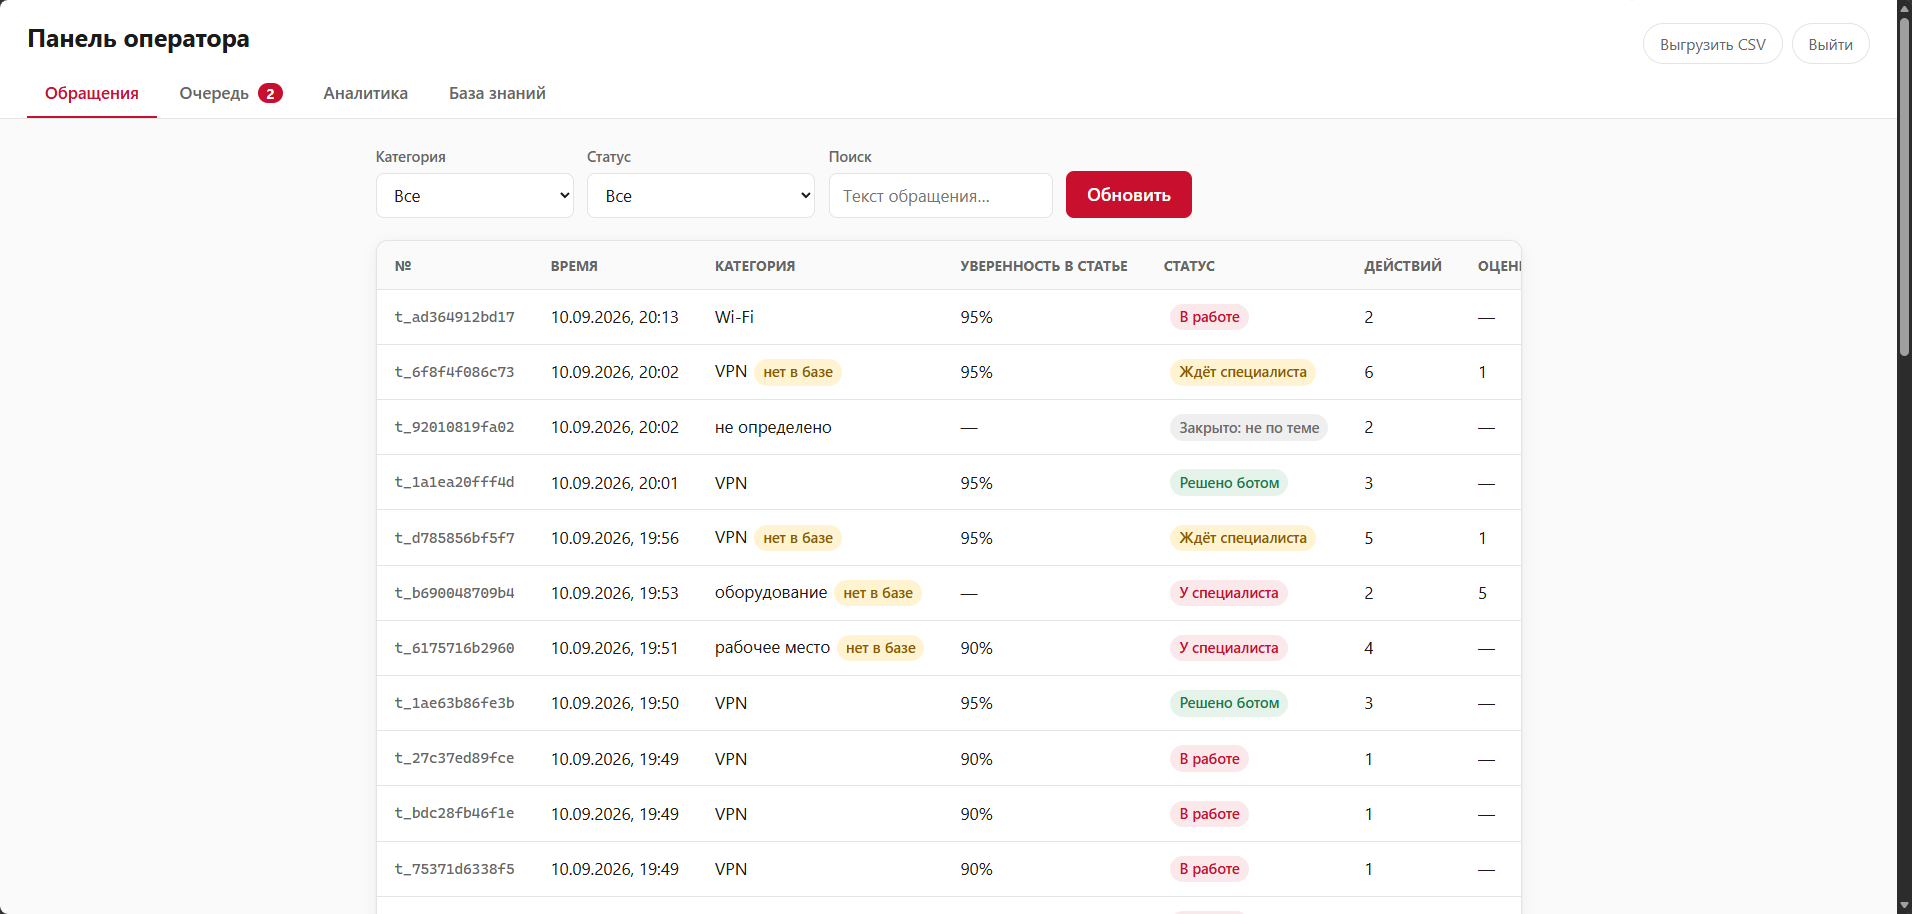
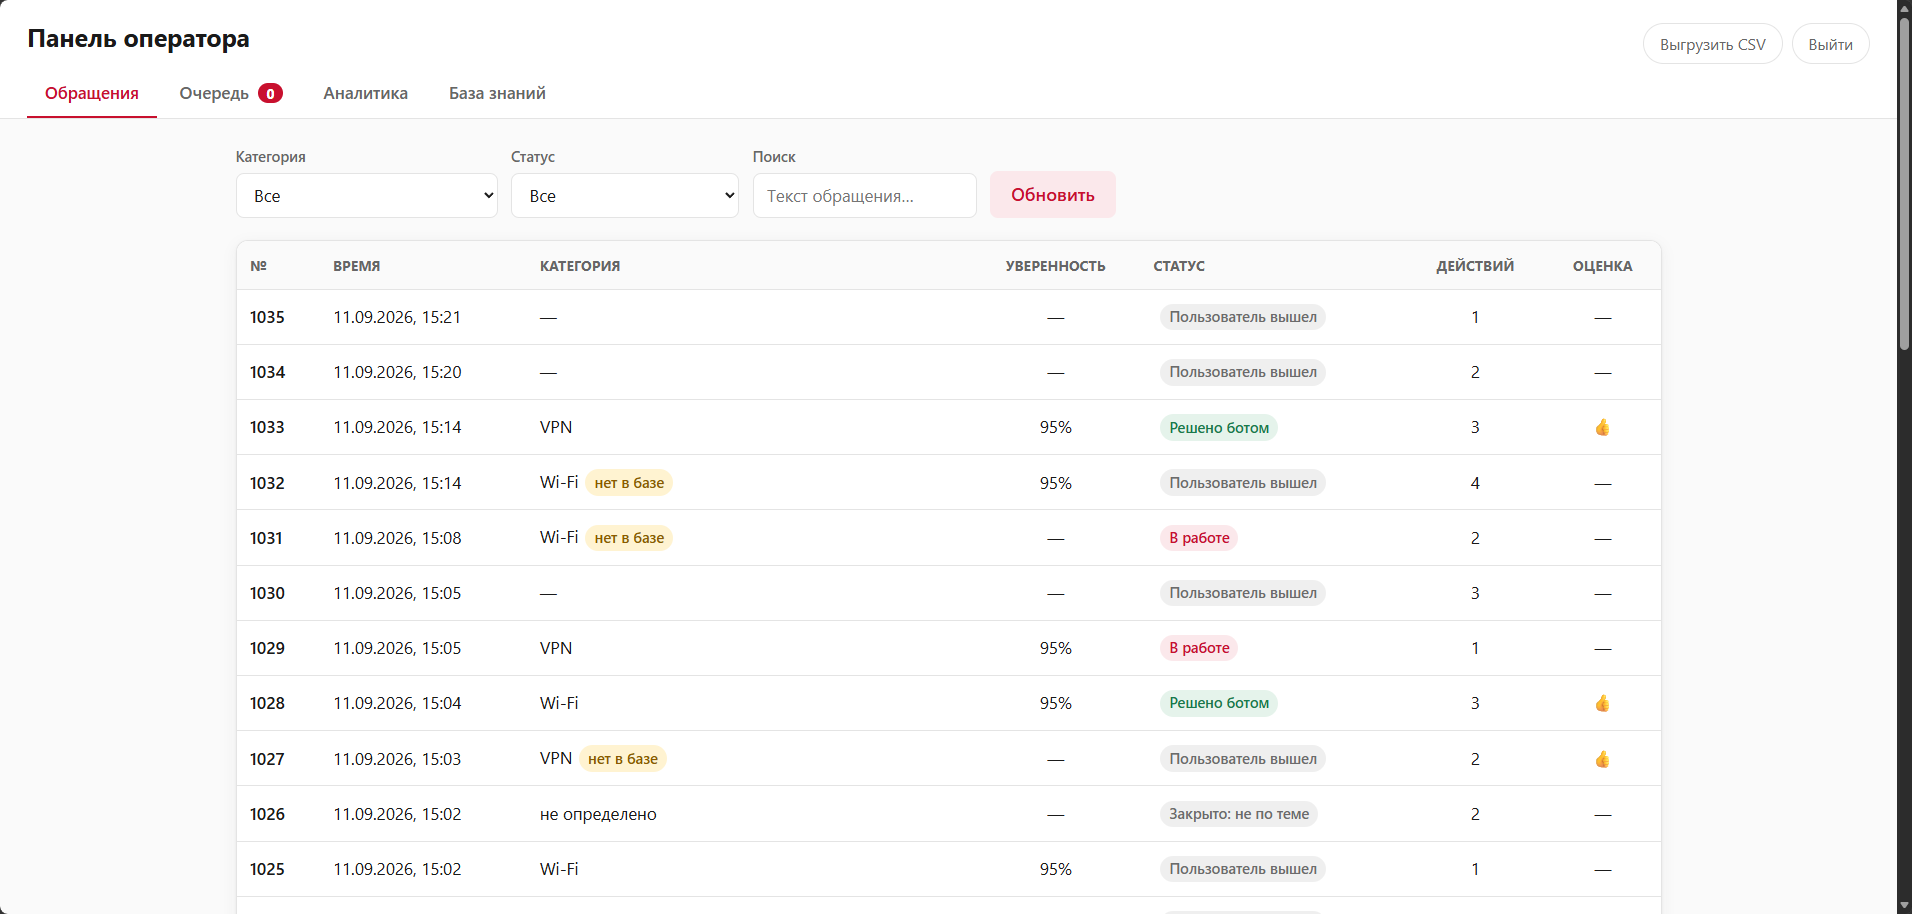
Финальная версия

diff --git a/core/dialog.py b/core/dialog.py
@@ -181,8 +181,6 @@ _MAX_OFFTOPIC = int(os.getenv("MAX_OFFTOPIC_MESSAGES", "2"))
 
 # ------------------------------------------- просьба позвать специалиста
 
-SPECIALIST_QR = "Всё равно позвать специалиста"
-
 _SPECIALIST_RE = re.compile(r"специалист|оператор|живо(?:го|му) человек", re.I)
 
 # Служебные слова самой просьбы: если кроме них в сообщении ничего нет,
@@ -212,15 +210,31 @@ def _wants_specialist(text: str) -> bool:
 
 
 def _ask_to_describe(db: Session, ticket: Ticket) -> ChatResponse:
+    """Просьба позвать человека, в которой не описана проблема.
+
+    Специалиста отсюда не зовём: заявка без описания занимает его рабочее время
+    и всё равно начинается с вопроса «а что у вас не работает». Сначала
+    предлагаем помощь. Если она не подойдёт, обращение уйдёт человеку обычным
+    путём — из проверки результата.
+    """
+    first = not ticket.specialist_asked
     ticket.specialist_asked = True
     ticket.state = "NEW"
     repo.log_event(db, ticket.id, "specialist_requested_blank")
+
+    text = ("Большинство типовых проблем я решаю сам и быстрее, чем занятый "
+            "специалист. Опишите в двух словах, что не работает — а если "
+            "не справлюсь, передам обращение ему вместе со всей историей."
+            if first else
+            "Мне правда нужно знать, в чём проблема: без этого я не смогу "
+            "ни помочь, ни толком передать обращение. Напишите одной фразой, "
+            "что случилось, или выберите вариант ниже.")
+
     return _respond(db, ticket, Reply(
-        type="question",
-        text=("Специалиста позову — но сначала опишите в двух словах, что "
-              "не работает. Так он подключится, уже понимая ситуацию, "
-              "а возможно, я решу вопрос быстрее."),
-        quick_replies=[SPECIALIST_QR]))
+        type="question", text=text,
+        quick_replies=["Не подключается VPN",
+                       "Не подключается Wi-Fi",
+                       "Не печатает принтер"]))
 
 
 def _looks_like_nonsense(text: str) -> bool:
@@ -397,10 +411,6 @@ def _classify(db: Session, ticket: Ticket, user_text: str) -> ChatResponse:
     # в поиск бессмысленно: искать нечего, а общие шаги вроде «перезагрузите
     # устройство» к неизвестной проблеме отношения не имеют.
     if _wants_specialist(user_text):
-        if ticket.specialist_asked:
-            ticket.problem_summary = (ticket.problem_summary
-                                      or "Пользователь просит специалиста")
-            return _escalate(db, ticket, "пользователь запросил специалиста")
         return _ask_to_describe(db, ticket)
 
     hits = _retriever.search(user_text, top_k=5)

diff --git a/tests/test_new_features.py b/tests/test_new_features.py
@@ -272,13 +272,17 @@ tid10, tok10 = d["ticket_id"], d["token"]
 check("на просьбу о специалисте просим описать проблему",
       d["reply"]["type"] == "question" and d["state"] != "ESCALATED", str(d)[:200])
 check("общие шаги при этом не выдаются", not d["reply"].get("steps"), str(d["reply"])[:150])
-check("предложена кнопка позвать специалиста всё равно",
-      any("специалист" in q.lower() for q in d["reply"]["quick_replies"]),
+check("вместо эскалации предложены варианты помощи",
+      len(d["reply"]["quick_replies"]) >= 2
+      and not any("специалист" in q.lower() for q in d["reply"]["quick_replies"]),
       str(d["reply"]["quick_replies"]))
-d2 = chat(quick_reply=d["reply"]["quick_replies"][0],
+d2 = chat("специалиста позовите", ticket_id=tid10, token=tok10).json()
+check("повторная просьба тоже не зовёт специалиста сразу",
+      d2["state"] != "ESCALATED", str(d2["state"]))
+d3 = chat(quick_reply=d["reply"]["quick_replies"][0],
           ticket_id=tid10, token=tok10).json()
-check("по кнопке обращение уходит специалисту",
-      d2["state"] == "ESCALATED", str(d2["state"]))
+check("выбор варианта запускает обычный сценарий",
+      d3["reply"]["type"] in ("steps", "question", "choice"), str(d3["reply"])[:120])
 
 # описание проблемы вместе с просьбой обрабатывается как обычно
 d = chat("не работает VPN, позовите специалиста").json()
